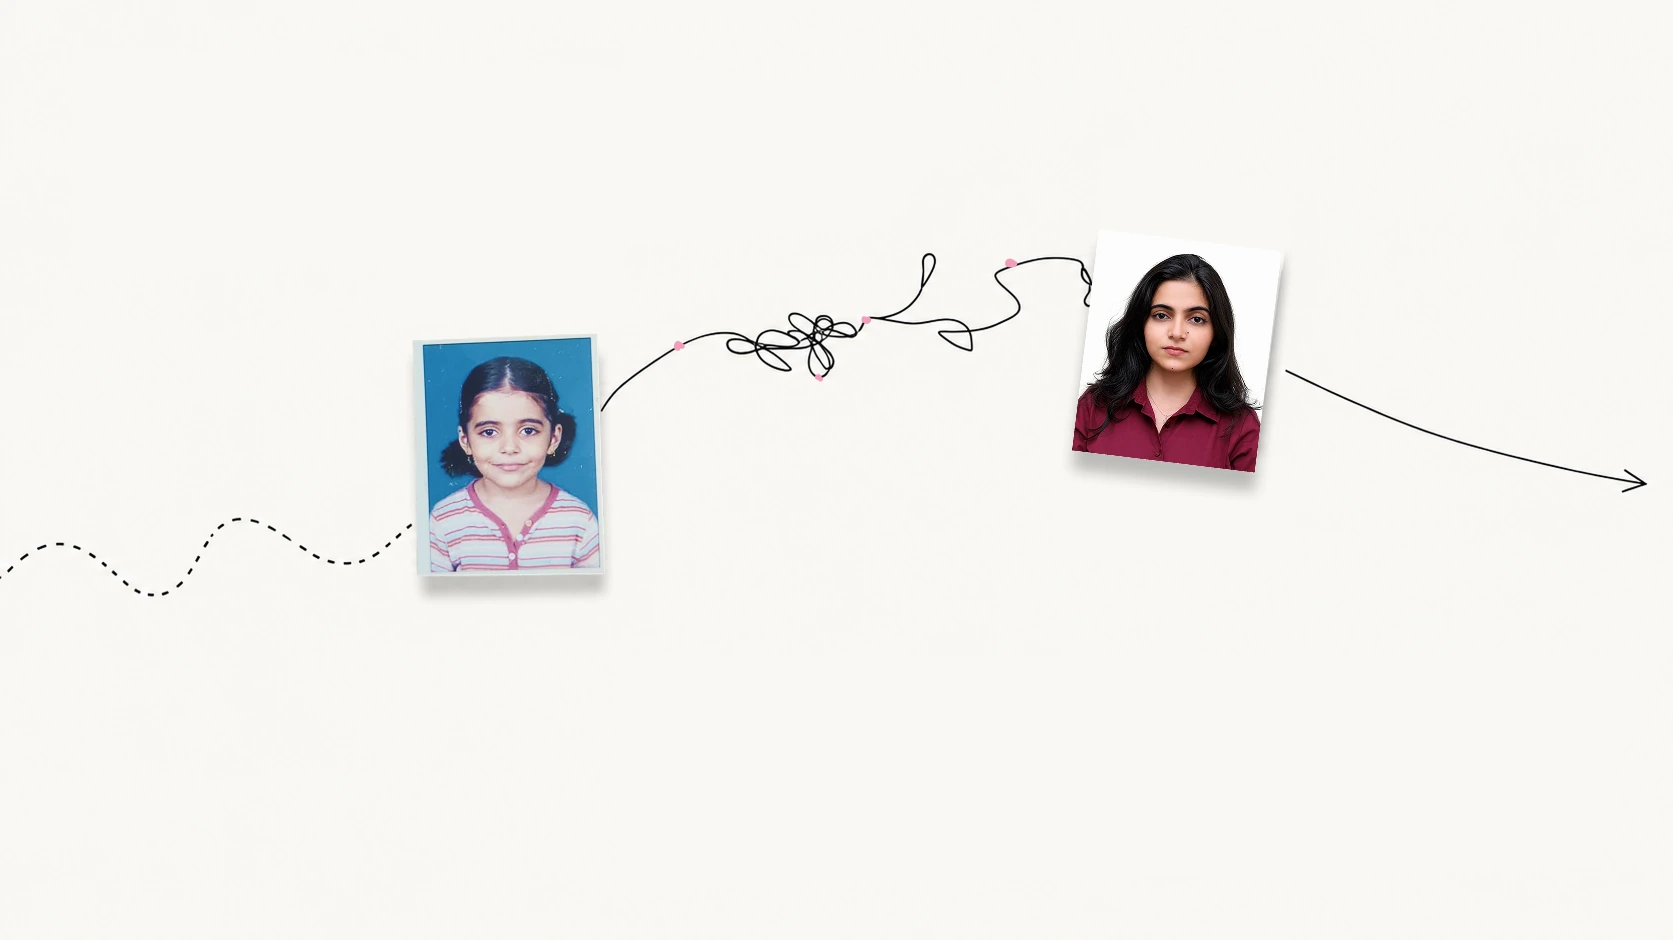
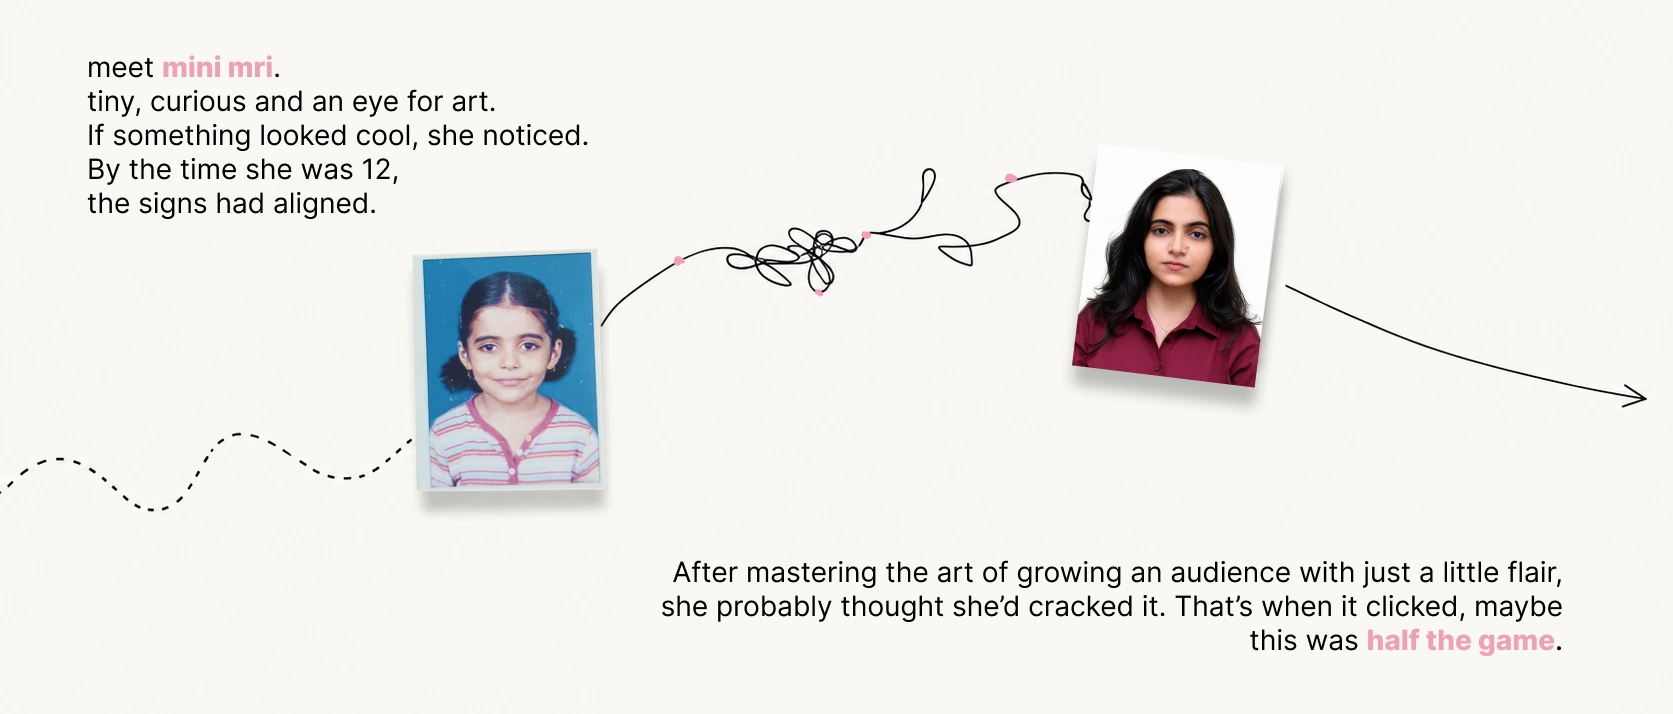
Notes: swap page one for the export that includes the copy
Replaces the previous origin-story frame with "Desktop - 14" — the same
composition, now carrying the narrative text it was missing: "meet mini mri…"
top-left and "After mastering the art of growing an audience…" bottom-right,
with "mini mri" and "half the game" in the scrapbook's pink.

The frame is a different shape: 1673x714 (2.34:1) rather than 1673x940 (16:9),
because the copy fills what used to be empty cream. Renders 1265x540 on a
1280px viewport — 0.756x native, so still downscaled and crisp — and the
floating dock now clears the artwork by 67px.

- WebP q94 rather than q92: 680 KB -> 81 KB. Bumped a step because this frame
  contains TEXT, and text edges are where WebP artefacts show first.
- Re-measured the decoded WebP's border: still #faf8f4 at 7 of 8 sample points,
  so the sheet's background is unchanged and the seam stays pixel-exact
  (verified: computed sheet background === sampled image edge).
- The copy is baked into the raster, so it cannot be selected, searched or
  translated. The alt attribute now carries the full text verbatim — that is
  the only route a screen reader or crawler has to it. Noted in Scene.jsx that
  the two must be updated together or they silently drift.

KNOWN, flagged rather than silently "fixed": on a 390px phone the image scales
to 0.233x and the body copy renders at 6.3px, which is unreadable (the photos
land at 44x57). Desktop is exactly as she designed it. A phone treatment is a
[…]

diff --git a/src/Scene.jsx b/src/Scene.jsx
@@ -1,22 +1,25 @@
 // PAGE ONE of the scrapbook — the origin story, as one finished piece of art.
 //
 // This is HER composition, placed exactly as exported (27 July 2026, by
-// request: "i want this exactly for the first part"). The dashed line enters
-// from the left, arrives at a childhood school photo, tangles through a
-// knot of loops, resolves at a recent portrait, and leaves as a clean arrow —
-// the whole "meet mini mri" arc told in one line, with the two real photos
-// that the earlier draft only had empty polaroid slots for.
+// request). A dashed line wanders in from the left, arrives at a childhood
+// school photo, tangles through a knot of loops, resolves at a recent portrait
+// and leaves as a clean arrow — the whole "meet mini mri" arc told in one line,
+// with the two real photographs the earlier draft only had empty polaroid slots
+// for, and the narrative copy set around them.
 //
 // It supersedes the hand-built version of this page (recovered from session
-// transcripts in July 2026: SVG line art, two `[image 1]`/`[image 2]` slots,
-// pencil milestone labels, and the narrative copy). That art is NOT lost —
-// it is in git history from commit 5336277 onward, and DECISIONS.md records
-// what it was. This is the same story, finished.
+// transcripts in July 2026: SVG line art, `[image 1]`/`[image 2]` slots, pencil
+// milestone labels, the copy as live text). That art is NOT lost — it is in git
+// history from commit 5336277 onward, and DECISIONS.md records what it was.
 //
-// It is placed as a single image on purpose. She asked for the exact visuals,
-// and re-drawing a composition that is already final would only invite drift.
-// The image carries no text of its own — see the note in notes-world.css about
-// the page's background, and DECISIONS.md about the missing narrative copy.
+// Placed as a single image on purpose: she asked for the exact visuals, and
+// re-drawing a composition that is already final would only invite drift.
+//
+// The copy is BAKED INTO the image, so it can't be selected, searched or
+// translated, and it doesn't reflow. The alt below therefore carries the full
+// text verbatim — that is the only route a screen reader or a crawler has to
+// it. If she ever re-exports this frame with different words, update the alt
+// to match or the two silently drift apart.
 export default function Scene() {
   return (
     <section className="sheet sheet-one">
@@ -24,9 +27,19 @@ export default function Scene() {
         <img
           className="nw-origin"
           src="/notes/origin.webp"
-          alt="A hand-drawn timeline: a dashed line wanders in from the left and reaches a childhood school photograph of Mrinali, then loops into a dense scribbled knot before straightening out at a recent portrait of her and leaving as a single confident arrow."
+          alt={
+            "meet mini mri. tiny, curious and an eye for art. If something " +
+            "looked cool, she noticed. By the time she was 12, the signs had " +
+            "aligned. — A childhood school photograph of Mrinali is joined by " +
+            "a looping hand-drawn line to a recent portrait of her, the line " +
+            "tangling into a dense scribble in between before straightening " +
+            "out and leaving as a single confident arrow. — After mastering " +
+            "the art of growing an audience with just a little flair, she " +
+            "probably thought she'd cracked it. That's when it clicked, maybe " +
+            "this was half the game."
+          }
           width="1673"
-          height="940"
+          height="714"
           draggable="false"
         />
       </div>

diff --git a/src/notes-world.css b/src/notes-world.css
@@ -127,13 +127,14 @@
    any normal screen edge to edge and never upscales past 1:1 on a huge one.
    The sheet's 104px bottom padding still keeps the collage clear of the dock. */
 /* Page one is a flat image whose own background is a lighter, cooler cream
-   than the scrapbook's paper (#f4f1e8). The sheet is taller than the 16:9 art,
-   so the space above and below it would otherwise read as two warm bands
-   framing a lighter rectangle. Painting the sheet in the image's OWN colour
-   makes those edges disappear — the whole screen becomes the artwork.
-   #faf8f4 is measured, not guessed: it is what 6 of 8 sampled border points of
-   the decoded WebP actually are. Page two keeps the warmer paper, which its
-   pencil collage (tech-discovery.png, itself ~#f4eee8) is drawn on. */
+   than the scrapbook's paper (#f4f1e8). The art is a wide 2.34:1 band and the
+   sheet is far taller, so the space above and below it would otherwise read as
+   warm bands framing a lighter rectangle. Painting the sheet in the image's OWN
+   colour makes those edges disappear — the whole screen becomes the artwork.
+   #faf8f4 is measured, not guessed: it is what 7 of 8 sampled border points of
+   the DECODED WebP are (sample the decoded file, not the source PNG — that is
+   what the browser actually paints next to). Page two keeps the warmer paper,
+   which its pencil collage (tech-discovery.png, itself ~#f4eee8) is drawn on. */
 .nw .sheet-one {
   background: #faf8f4;
 }
